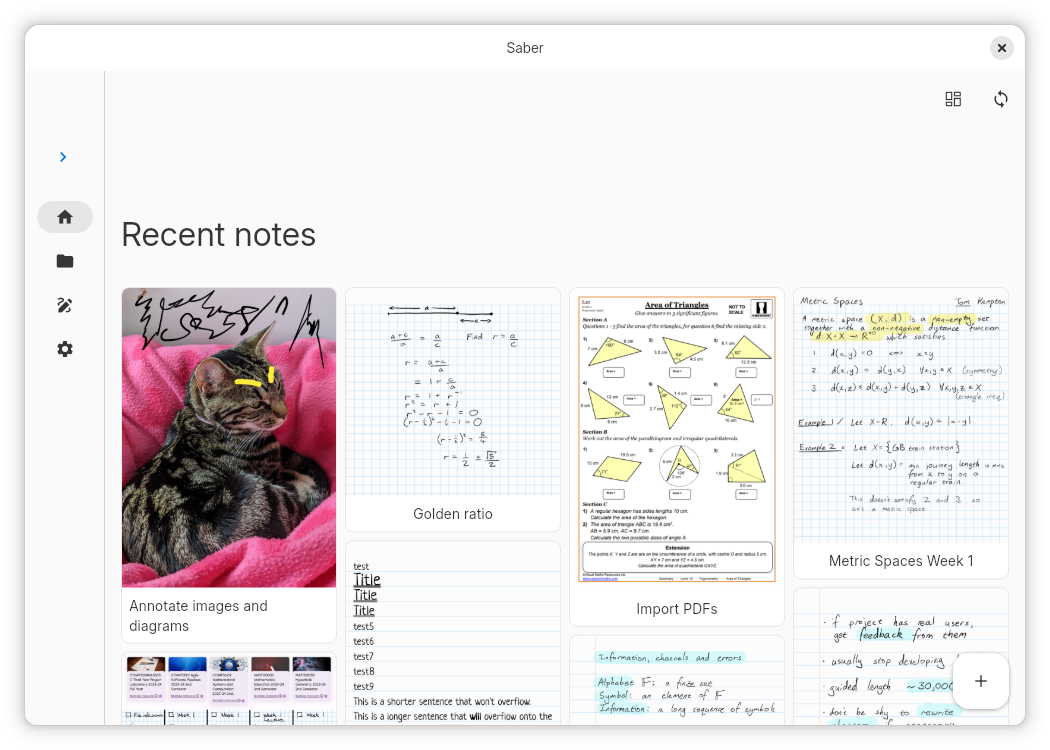
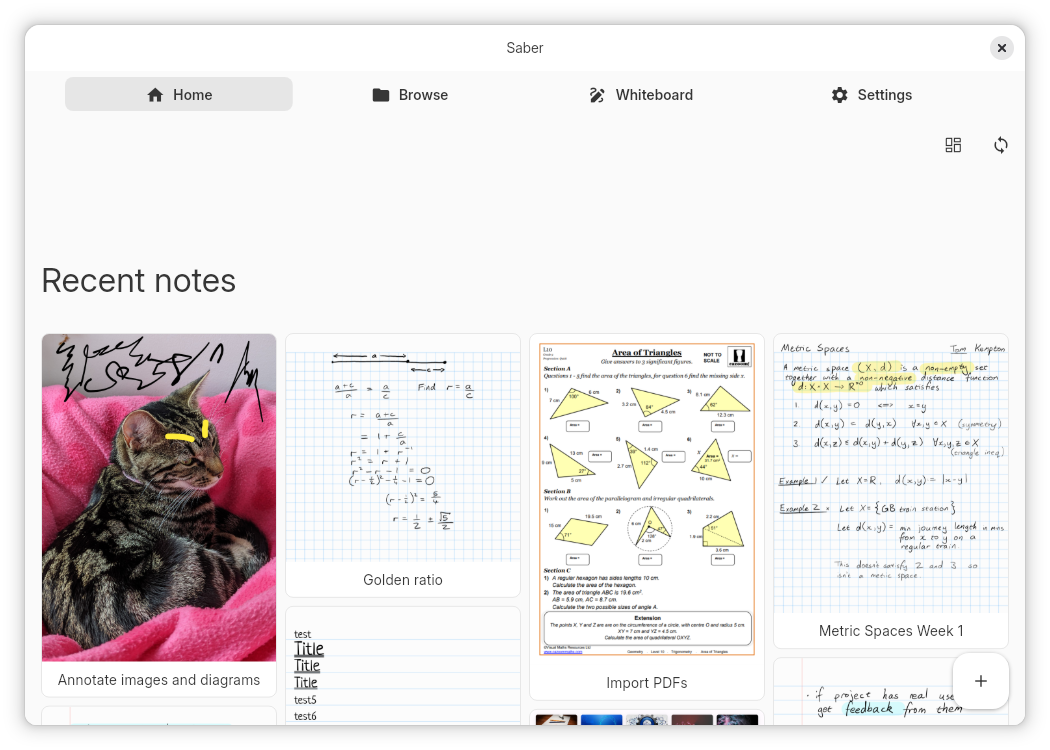
feat: adwaita themed navbar on linux

diff --git a/lib/components/navbar/top_adwaita_navbar.dart b/lib/components/navbar/top_adwaita_navbar.dart
@@ -1,0 +1,86 @@
+import 'package:flutter/material.dart';
+import 'package:flutter/semantics.dart';
+import 'package:saber/data/routes.dart';
+
+class const TopAdwaitaNavbar({
+  super.key,
+  final int selectedIndex = 0,
+  final ValueChanged<int>? onDestinationSelected,
+}) extends StatelessWidget implements PreferredSizeWidget {
+  @override
+  Widget build(BuildContext context) {
+    final routes = HomeRoutes.routes;
+    return Padding(
+      padding: const EdgeInsets.all(6),
+      child: Semantics(
+        role: SemanticsRole.tabBar,
+        explicitChildNodes: true,
+        container: true,
+        child: Center(
+          child: SizedBox(
+            width: 230.0 * routes.length,
+            child: Row(
+              mainAxisAlignment: .center,
+              spacing: 3,
+              children: [
+                for (int i = 0; i < routes.length; ++i)
+                  Expanded(
+                    child: _Tab(
+                      route: routes[i],
+                      selected: i == selectedIndex,
+                      onTap: () => onDestinationSelected?.call(i),
+                    ),
+                  ),
+              ],
+            ),
+          ),
+        ),
+      ),
+    );
+  }
+
+  @override
+  Size get preferredSize => const Size(double.infinity, 46);
+}
+
+class const _Tab({
+  required final HomeRoute route,
+  required final bool selected,
+  required final VoidCallback? onTap,
+}) extends StatelessWidget {
+  @override
+  Widget build(BuildContext context) {
+    return MergeSemantics(
+      child: Semantics(
+        role: SemanticsRole.tab,
+        selected: selected,
+        child: FilledButton(
+          onPressed: onTap,
+          style: FilledButton.styleFrom(
+            backgroundColor: selected ? null : Colors.transparent,
+            overlayColor: selected ? Colors.transparent : null,
+          ),
+          child: _TabContent(route: route),
+        ),
+      ),
+    );
+  }
+}
+
+class const _TabContent({required final HomeRoute route})
+    extends StatelessWidget {
+  @override
+  Widget build(BuildContext context) {
+    return Row(
+      mainAxisSize: .min,
+      spacing: 8,
+      children: [
+        route.destination.icon,
+        Text(
+          route.destination.label,
+          style: const TextStyle(fontWeight: .w600),
+        ),
+      ],
+    );
+  }
+}

diff --git a/lib/components/navbar/responsive_navbar.dart b/lib/components/navbar/responsive_navbar.dart
@@ -4,6 +4,7 @@ import 'package:go_router/go_router.dart';
 import 'package:path_to_regexp/path_to_regexp.dart';
 import 'package:saber/components/navbar/bottom_navbar.dart';
 import 'package:saber/components/navbar/left_navbar.dart';
+import 'package:saber/components/navbar/top_adwaita_navbar.dart';
 import 'package:saber/data/prefs.dart';
 import 'package:saber/data/routes.dart';
 import 'package:saber/pages/home/home.dart';
@@ -48,6 +49,8 @@ class ResponsiveNavbar extends HookWidget {
   Widget build(BuildContext context) {
     useListenable(stows.locale); // update navbar text
 
+    final theme = Theme.of(context);
+
     final screenSize = MediaQuery.sizeOf(context);
     isLargeScreen = useListenableSelector(
       stows.layoutSize,
@@ -57,6 +60,16 @@ class ResponsiveNavbar extends HookWidget {
         .tablet => true,
       },
     );
+
+    if (isLargeScreen && theme.platform == .linux) {
+      return Scaffold(
+        appBar: TopAdwaitaNavbar(
+              selectedIndex: selectedIndex,
+              onDestinationSelected: (i) => onDestinationSelected(context, i),
+        ),
+        body: body,
+      );
+    }
 
     if (isLargeScreen) {
       return Scaffold(
@@ -71,12 +84,12 @@ class ResponsiveNavbar extends HookWidget {
           ],
         ),
       );
-    } // else mobile
+    }
 
     final navbarClearance = BottomNavbar.clearanceHeightOf(context);
     final mediaQuery = MediaQuery.of(context);
     return ColoredBox(
-      color: Theme.of(context).scaffoldBackgroundColor,
+      color: theme.scaffoldBackgroundColor,
       child: Stack(
         children: [
           MediaQuery(
